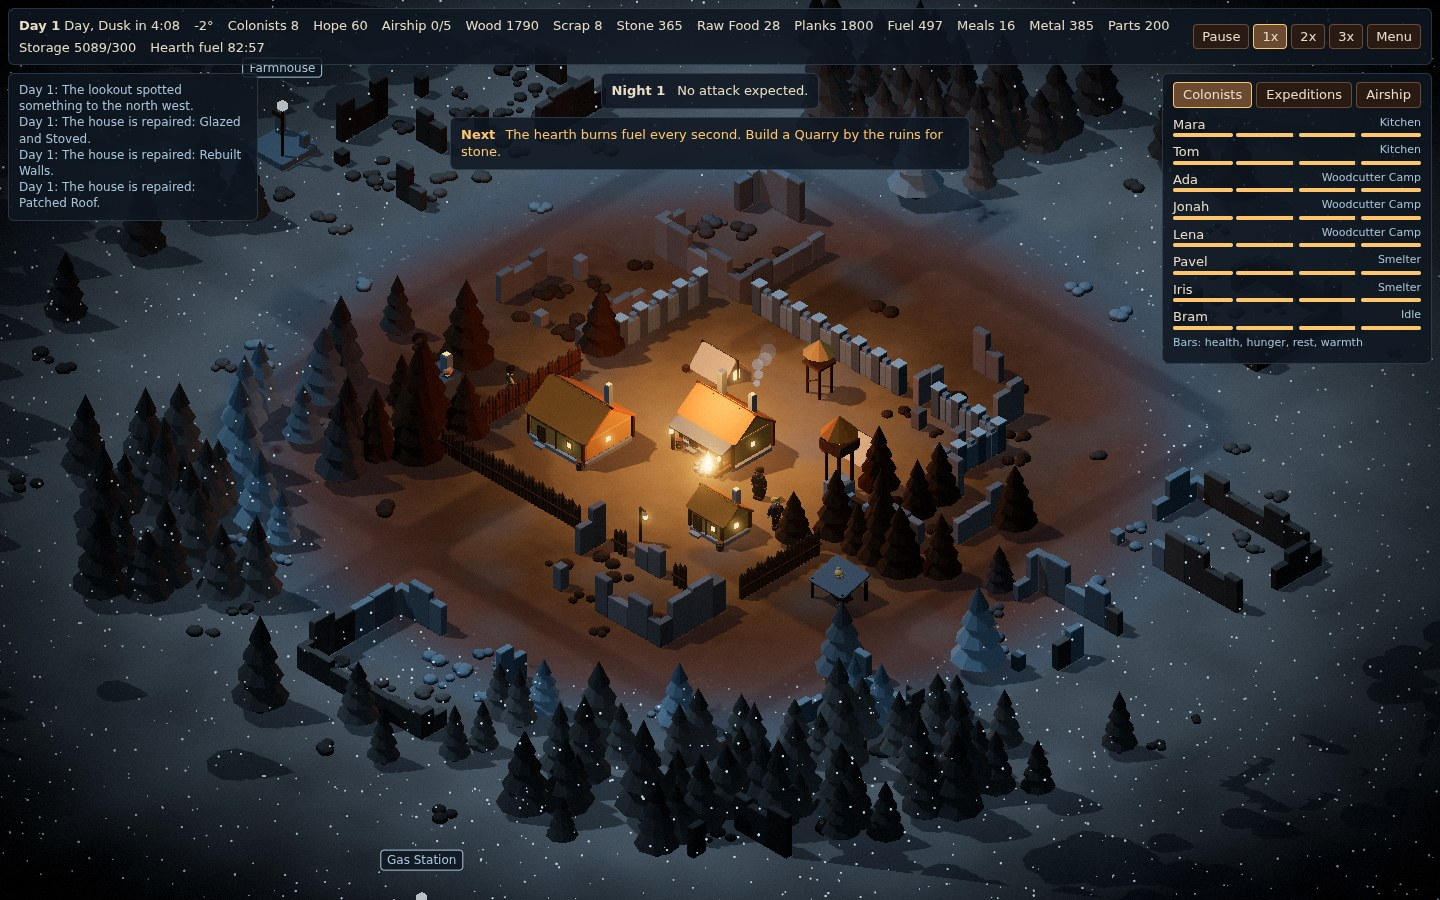
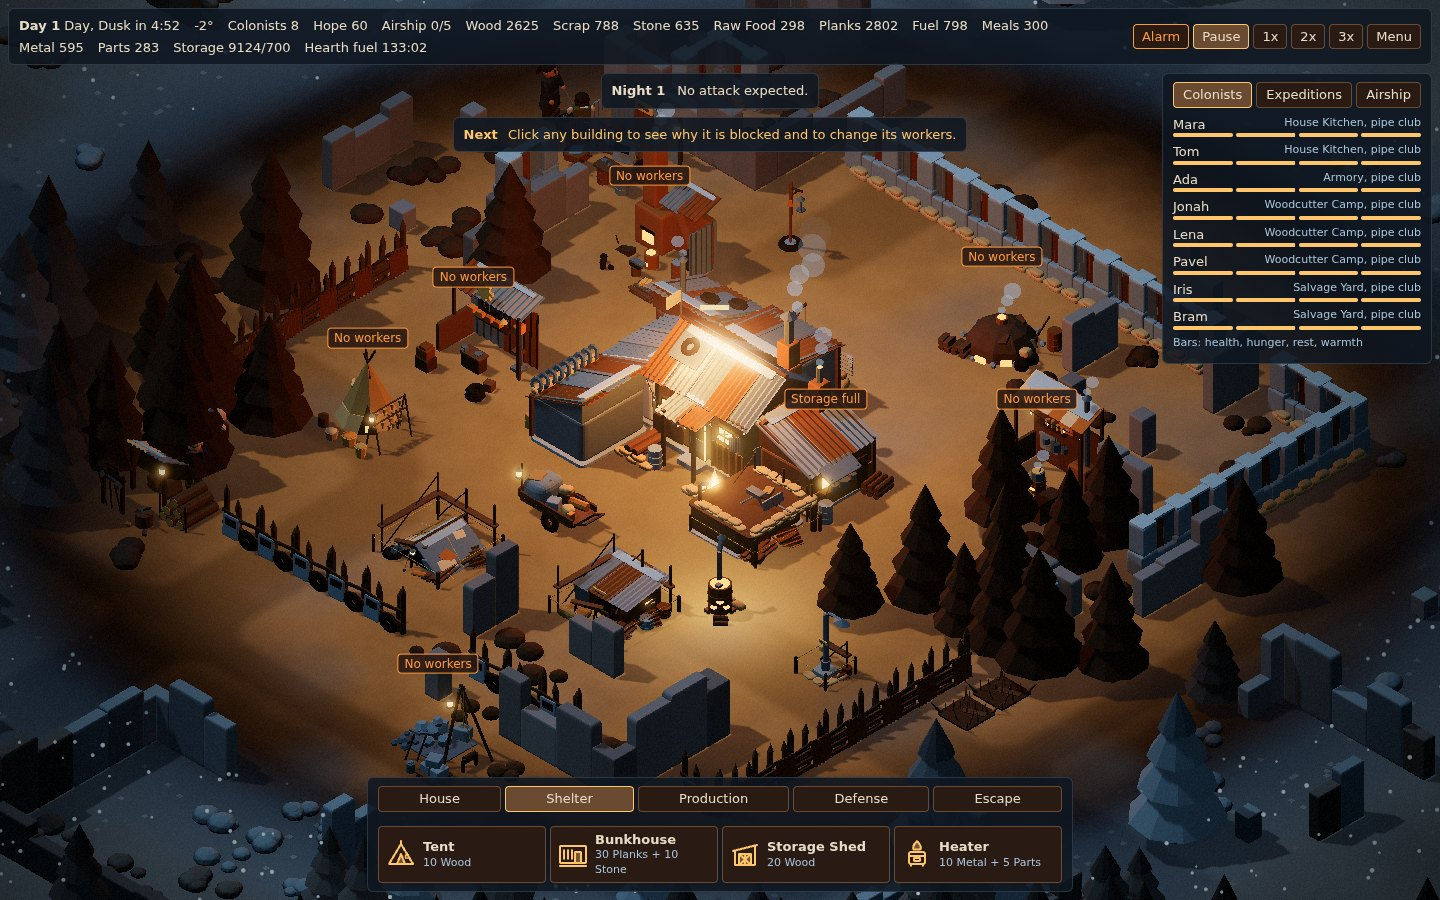
M8: the living compound
Construction sites and builders, work spots and trade animations with
tools, the Supply Cart, house rooms on the house lot, stepped light at
70, 80, 90, and 100 percent of each radius with a light map and a glow
for every building, Lamp Post, breakers and hunters, day raids, weapons
and the Armory, watchtower guns, shelter and the alarm, post apocalyptic
art for every building and the house, build menu icons, a title screen,
save slots, save files, and a rebalanced economy.

Claude-Session: https://claude.ai/code/session_01QHgDU8NzP9JpvwsE4twmXj

diff --git a/src/render/colonists.ts b/src/render/colonists.ts
@@ -11,7 +11,7 @@ const TOOL_FOR: Record<WorkAnim, string | undefined> = {
   chop: 'axe', pick: 'pick', pry: 'crowbar', gather: undefined, stir: 'ladle', saw: 'saw', hammer: 'hammer', tend: 'poker',
 };
 /** Guards stand on the platform of these posts. */
-const POST_HEIGHT: Partial<Record<string, number>> = { watchtower: 1.7, gunNest: 1.1 };
+const POST_HEIGHT: Partial<Record<string, number>> = { watchtower: 2, gunNest: 1.28 };
 
 export function colonistFigures(w: World, alpha: number, heading: Map<number, number>): Figure[] {
   const { width, height } = w.map;
@@ -28,6 +28,7 @@ export function colonistFigures(w: World, alpha: number, heading: Map<number, nu
     let tool: string | undefined = c.weapon;
     let face: { x: number; y: number } | null = null;
     let y = 0;
+    let shift = 0;
     if (c.task === 'work' && job) {
       pose = BUILDINGS[job.type].work ?? 'hammer';
       tool = TOOL_FOR[pose];
@@ -39,13 +40,15 @@ export function colonistFigures(w: World, alpha: number, heading: Map<number, nu
       pose = 'guard';
       const post = c.duty === null ? undefined : byId.get(c.duty);
       y = post ? (POST_HEIGHT[post.type] ?? 0) : 0;
+      // Two guards on one post stand side by side.
+      shift = w.colonists.filter((o) => o.duty === c.duty && o.task === 'guard').indexOf(c) === 1 ? 0.3 : -0.15;
       // Guards look out, away from the house.
       face = { x: c.x * 2 - w.hearth.x, y: c.y * 2 - w.hearth.y };
     }
     if (moving) heading.set(c.id, Math.atan2(dx, dy));
     else if (face && Math.hypot(face.x - c.x, face.y - c.y) > 0.05) heading.set(c.id, Math.atan2(face.x - c.x, face.y - c.y));
     people.push({
-      id: c.id, x: c.px + dx * alpha - width / 2, y, z: c.py + dy * alpha - height / 2, yaw: heading.get(c.id) ?? 0, moving,
+      id: c.id, x: c.px + dx * alpha - width / 2 + shift, y, z: c.py + dy * alpha - height / 2, yaw: heading.get(c.id) ?? 0, moving,
       look: lookFor(w.seed, COLONIST_NAMES.indexOf(c.name)), pose, tool,
     });
   }

diff --git a/src/ui/style.css b/src/ui/style.css
@@ -230,9 +230,15 @@ button.alarm.on {
   color: #ffc56b;
 }
 
+.colonist span {
+  white-space: nowrap;
+  margin-right: 8px;
+}
+
 .colonist small {
   text-align: right;
   min-width: 0;
+  overflow-wrap: normal;
 }
 
 .slot {

diff --git a/docs/CHANGELOG.md b/docs/CHANGELOG.md
@@ -17,6 +17,7 @@ Newest entries first. Each entry names the milestone it belongs to.
 - **Build menu icons** for every building, with the reason a building cannot be built yet.
 - **Title screen** with Continue, New game on a chosen or random map, Load game, Import save file, Settings, and Story. The pause menu saves to three slots, loads, exports a save file, and returns to the title. Saves are version 3 and leave out data that is rebuilt on load.
 - **Rebalance.** Woodcutters cut 8 wood per cycle and trees hold 48. Salvage yards get 7 scrap and rubble holds 20. Sawmills and smelters work a little faster. The scripted full run launches by day 9 on seeds 2, 3, 5, and 6.
+- Added `docs/screenshots/m8-title.jpg`, `m8-compound.jpg`, `m8-workers.jpg`, `m8-house-stages.jpg`, `m8-buildings-1.jpg`, and `m8-buildings-2.jpg`.
 - New tests in `tests/compound.test.ts` cover construction, work spots, the cart, the house lot, bedrooms, breakers, the alarm, raids, the armory, fighting back, and tower guns.
 
 ## 2026-10-03 (M7.1: Scale, People, and Light)
@@ -29,7 +30,7 @@ Newest entries first. Each entry names the milestone it belongs to.
 - Light protects people in steps: Bright, Lit, Dim, and Fringe (section 5.3). Monsters do not attack people in the bright core. In the fringe they attack at reduced strength. Monsters also slow down the deeper they go into the light. This replaces the old Shambler and Runner rule.
 - Fog of war is no longer flat black. Near the known land it shows the ground as a darker grey drifting haze, with faint grey shapes of trees and ruins. Farther in it fades to pitch black.
 - Tests cover the light steps, the gradual warmth falloff, and the colonist looks.
-- Added `docs/screenshots/m8-start.jpg`, `m8-fog.jpg`, `m8-compound.jpg`, and `m8-people.jpg`.
+- Added `docs/screenshots/m7-1-start.jpg`, `m7-1-fog.jpg`, `m7-1-compound.jpg`, and `m7-1-people.jpg`.
 
 ## 2026-10-03 (M7: The Hearth House and the Compound)
 

diff --git a/docs/DECISIONS.md b/docs/DECISIONS.md
@@ -152,3 +152,6 @@ Design and architecture decisions that are not already in `docs/GAME_DESIGN.md`.
 - **Vercel needs no config.** The Vercel project detects Vite, runs `npm run build`, and serves `dist`. Every push to `main` deploys to production.
 - **Watchtower costs wood.** It used to cost planks, which a new colony does not have, so the player could not build one early. It now costs 30 wood.
 - **The full run test uses seeds 2, 3, 5, and 6 when checked by hand, and 2, 3, and 5 in the test.** Construction labor and raids slow the simple bot. Seeds 1 and 4 end one airship part short at the night 10 Blood Moon.
+- **Building art is split by category** under `src/render/meshes/buildings/`, with `src/render/meshes/buildings.ts` as a short registry. Shared junk props live in `parts.ts` and shared materials and geometry in `kit.ts`, so a building reuses geometry instead of making new materials.
+- **Rooms face away from the house.** A room turns on the first frame it is drawn, using its world position and the hearth at the origin. This needs no extra state in the simulation.
+- **Ground glow comes from the light map only.** Building meshes no longer carry their own ground glow decals, since the light map already paints building light. Only the heater, lantern post, and lamp post keep a glow inside their `light` child.

diff --git a/docs/KNOWN_ISSUES.md b/docs/KNOWN_ISSUES.md
@@ -60,5 +60,8 @@ Bugs, shortcuts, and loose ends that are known but not fixed yet.
 - The bot does not use the alarm. In tests the alarm cost more work time than the few raiders cost lives.
 - A save from an older version (2 or below) cannot be loaded. The title screen says so.
 - Save files are plain JSON and can be edited by hand.
+- A house room can face the wrong way for its first rendered frame before it turns away from the house.
+- The roof of the house is the brightest thing on screen, because the hearth point light sits right above it.
+- Trees near a work spot can hide the worker chopping them from the default camera angle.
 - Characters have walk and work animations, but no attack or death animations yet.
 - The intro story opens on every new run. There is no setting to skip it, only the button to close it.
